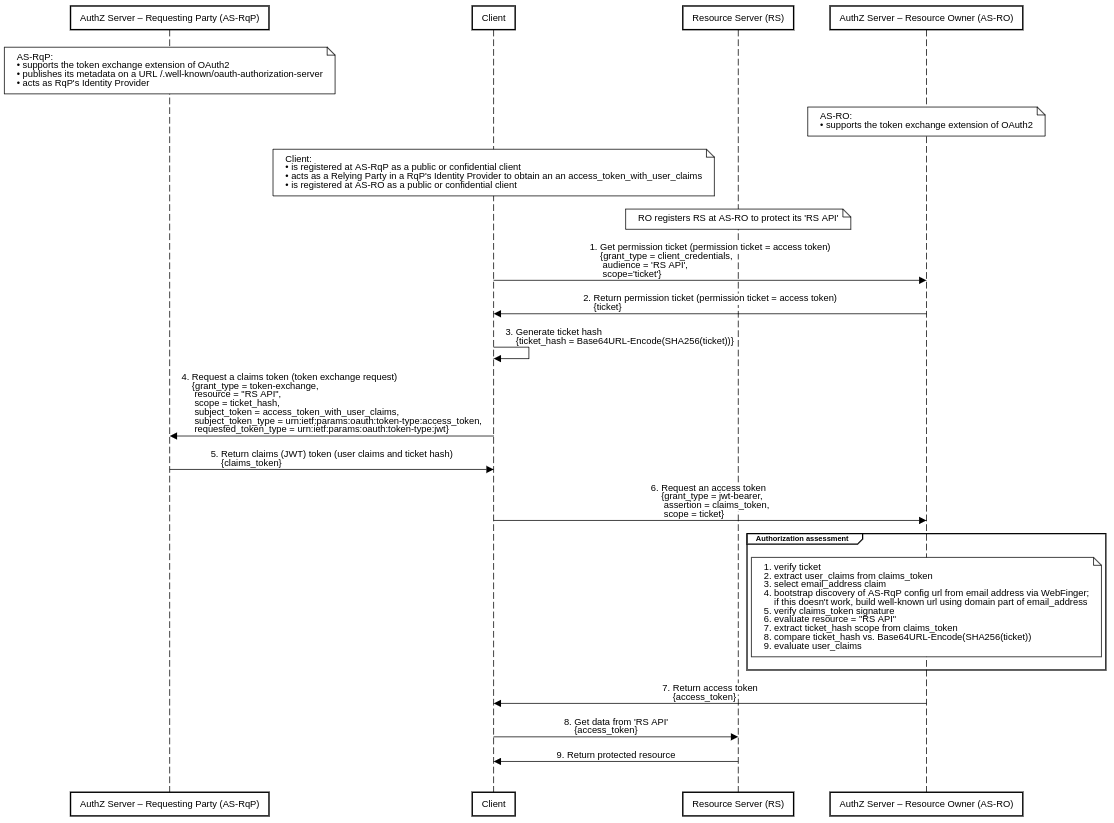
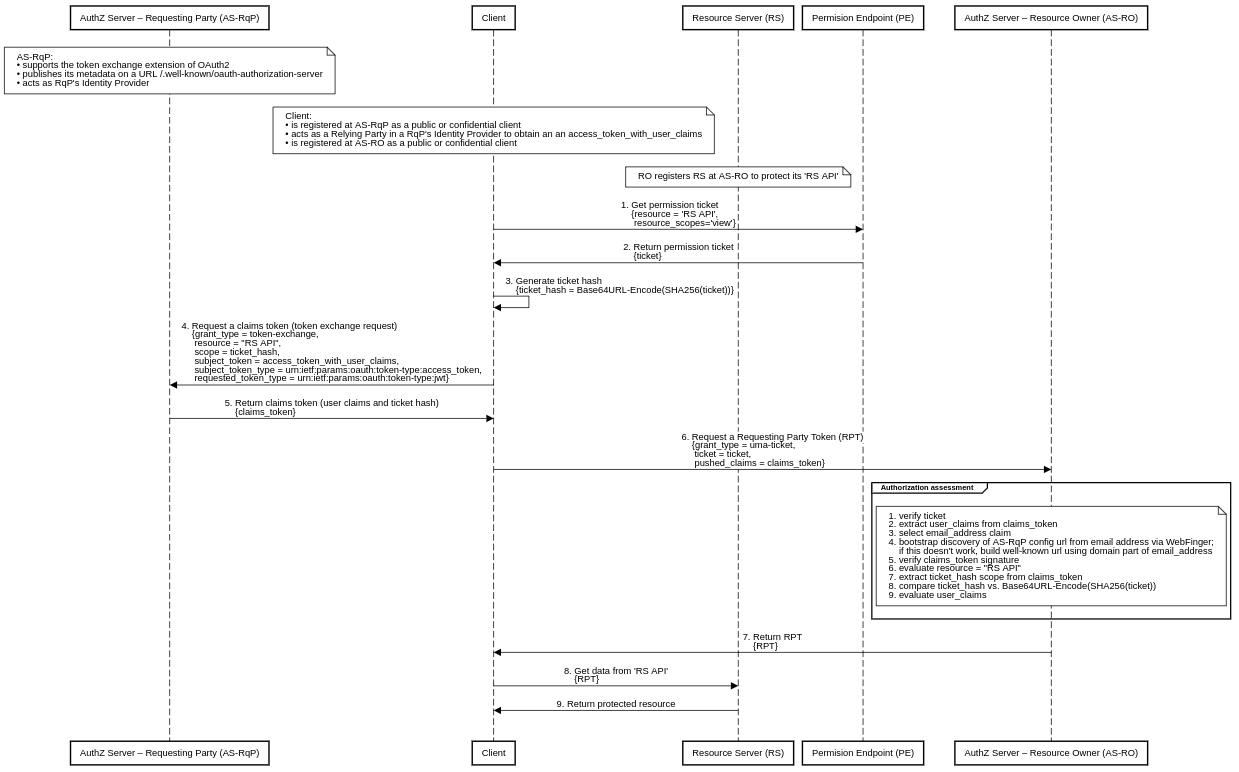
UMA Profile (experimental)

diff --git a/README2.md b/README2.md
@@ -1,34 +1,12 @@
-# Correlated Authorization (experimental)
+### UMA Profile (experimental)
 
-## Abstract
-
-Correlated Authorization (CAZ) is a dual-authority authorization protocol built on top of [User-Managed Access (UMA)][1] and [OAuth2][2] protocols that allows users (resource owners) to delegate access to other users (requesting parties) across security domain boundaries. The requesting party is responsible for creating the request, while the resource owner approves this request either when it is online or by creating a policy. The resource owner and the requesting party belong to different security domains administered by the respective authorities. This concept uses a permission ticket issued by the resource owner's authorization server as a correlation handle that binds the requesting party's claims to the authorization process. An email address is used as the unique requesting party identifier for cross-domain access control. The intrinsic challenge-response authentication protocol elevates trust between the resource owner's authorization server and requesting party's identity provider.
-
-## Introduction
-
-With the growing popularity of protocols based on the OAuth2 specification, there is a need for an interoperable standard that specifies how to convey information about the user from an identity provider to an authorization server, especially across security domain boundaries. The problem is that such a system is difficult to design because OAuth2, OIDC and UMA are single-authority protocols. This draft profiles and combines the OAuth2 and UMA protocols into a dual-authority protocol, which not only meets the needs of interoperability, but also elevates trust between mutually unknown parties.
-
-## Motivation
-
-CAZ is an attempt to revive UMA WG's original idea – [UMA wide ecosystem][9], when the resource owner and requesting party might "know each other" in the real world, but the resource owner's authorization server has no pre-established trust with the requesting party or any of their identity/claims providers – in other words, when the resource owner's authorization server and requesting party's identity provider don't know each other.
-
-## UMA Wide Ecosystem Concept
-
-## Challenge-Response Authentication Concept
-
-## Sequence Diagram
-
-The following sequence diagram describes the mechanism of the CAZ protocol, which relies on the token exchange extension of OAuth2, where an access token is used to obtain a claims token from the Security Token Service (STS) endpoint.
-
-### UMA Profile
-
-This diagram represents a profile of the experimental UMA protocol.
+This diagram represents a profile of the experimental UMA protocol that does not need a protection API access token. The permission ticket is obtained directly by the client from the permission endpoint.
 
 ![Sequence Diagram – UMA experimental](./images/correlated-authz-uma-exper.png)
 
 Prerequisites:
 
-* Both authorization servers support the [OAuth 2.0 Token Exchange][5] extension of OAuth2.
+* The AS-RqP supports the [OAuth 2.0 Token Exchange][1] extension of OAuth2.
 * The AS-RqP also acts as RqP's Identity Provider.
 * The AS-RqP publishes its metadata on a URL /.well-known/oauth-authorization-server (alternatively on /.well-known/openid-configuration).
 * The client is registered at the AS-RqP as a public or confidential client and acts as a Relying Party in a RqP's Identity Provider to obtain an access token with user claims.
@@ -37,7 +15,7 @@ Prerequisites:
 
 Steps:
 
-1. The RqP directs the client to get a permission ticket from the AS-RO to access the 'RS API' resource. The created permission ticket is an access token with a scope 'ticket'.
+1. The RqP directs the client to the AS-RO permission endpoint to get the permission ticket.
 2. The AS-RO returns the permission ticket.
 3. The client generates a ticket hash derived from the permission ticket using the following transformation ticket_hash = Base64URL-Encode(SHA256(ticket)).
 4. At the AS-RqP the client requests a claims token by presenting the access token with user claims and the generated ticket hash.
@@ -47,68 +25,4 @@ Steps:
 8. With the valid access token the client tries to access the 'RS API'.
 9. The RS validates the access token, it is valid, the RS allow access the protected 'RS API' resource.
 
-### Dynamic Client Registration
-
-
-
-## Authority Boundaries, Interactions and Scenarios
-
-The CAZ protocol allows us to indirectly (through the client) link identity providers with authorization services governed by different authorities that are not required to share information or collaborate.
-
-The following scenarios demonstrate a system of trust between two authorities that allows the conveyance of identity information from identity providers to authorization services across security domain boundaries.
-
-### Identity Federation Scenario
-
-This scenario allows to use multiple authoritative identity providers with a single authorization service. The client falls under the governance of the resource owner's respective authority.
-
-![Scenario-1](./images/authority-boundaries-scenario-1.svg)
-
-### Federated Authorization Scenario
-
-The federated authorization scenario shows the use of a single authoritative identity provider with multiple authorization services. The client falls under the governance of the requesting party's respective authority.
-
-![Scenario-2](./images/authority-boundaries-scenario-2.svg)
-
-### Combined Federation Scenario
-
-As the name suggests, this scenario allows to use multiple authoritative identity providers with multiple authorization services. The client falls under the governance of a third-party authority.
-
-![Scenario-3](./images/authority-boundaries-scenario-3.svg)
-
-## Use Cases
-
-Healthcare and enterprise cross-domain services e.g. email, file sharing, instant messaging, tele-conferencing. Also, Fintech and Telco services.
-
-## Future Work
-
-1. Consider a Correlated Authentication (CAN) protocol, where RS/AS acts as an external authoritative attribute/claims provider.
-2. Employ the DPoP mechanism and create the permission ticket directly on the client to avoid the initial round trip to RS/AS.
-3. Describe how the resource owner can use the CAZ protocol.
-4. Consider using the CAZ mechanism to transfer digital/virtual assets in the form of transactions.
-
-# Authorization-Enhanced Mail System
-
-A prototype implementation of the Authorization-Enhanced Mail System (AEMS) draft proposal, working as a proof of the concept of CAZ.
-
-AEMS provides a mechanism to store, share and transfer information across security domains. From the user's point of view, AEMS looks like a standard email system.
-
-## Screenshot
-
-![GUI](./images/gui.png)
-## Demo and Documentation
-
-WIP, early stage [umabox.org][7].
-
-## Acknowledgment
-
-Credits go to [WG - User-Managed Access][8].
-
-[1]: https://en.wikipedia.org/wiki/User-Managed_Access
-[2]: https://datatracker.ietf.org/doc/html/rfc6749
-[3]: https://github.com/uma-email/proposal/blob/master/correlated-authorization-draft-00.pdf
-[4]: https://github.com/uma-email/proposal/blob/master/authorization-enhanced-mail-system-draft-02.pdf
-[5]: https://www.rfc-editor.org/rfc/rfc8693.html
-[6]: https://docs.kantarainitiative.org/uma/wg/rec-oauth-uma-federated-authz-2.0.html
-[7]: https://www.umabox.org
-[8]: https://kantarainitiative.org/confluence/display/uma/Home
-[9]: https://kantarainitiative.org/confluence/display/uma/UMA+Roadmap+for+2016
+[1]: https://www.rfc-editor.org/rfc/rfc8693.html
